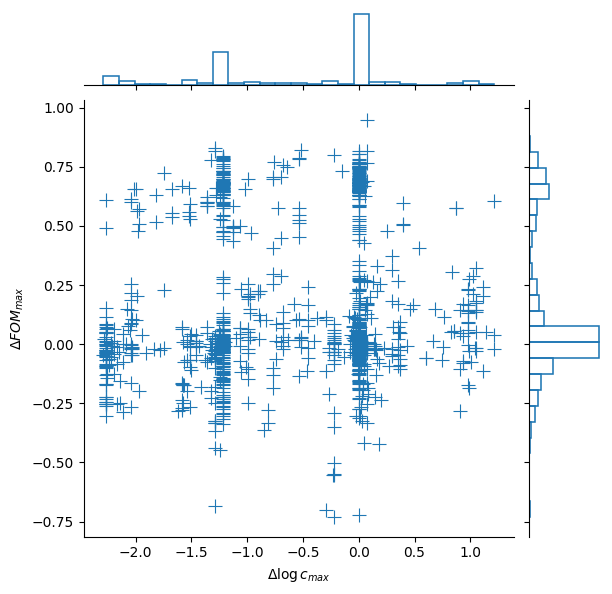
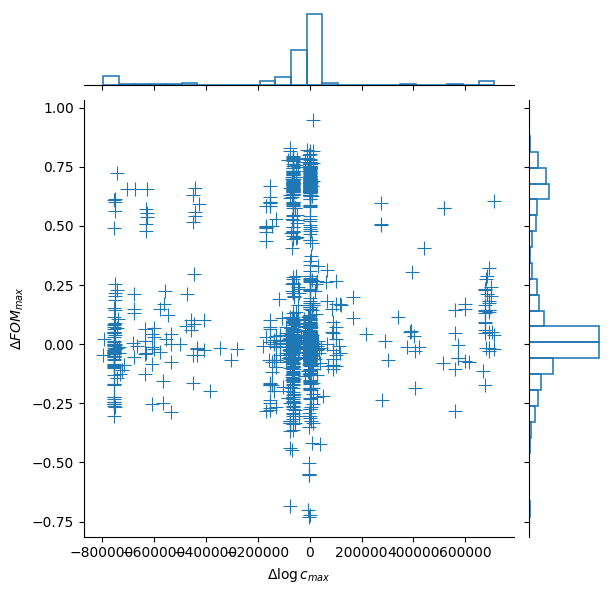
- dconc analysis, nomal scale

diff --git a/workplace/Counterfactual/dconc/dconc.py b/workplace/Counterfactual/dconc/dconc.py
@@ -1,5 +1,4 @@
 import glob
-import math
 import os.path
 
 import numpy as np
@@ -8,14 +7,14 @@ import tqdm
 from loguru import logger
 
 from lsal.alearn.one_ligand import SingleLigandPrediction
-from lsal.utils import json_load
+from lsal.utils import json_load, json_dump
 from lsal.utils import pkl_load, pkl_dump, truncate_distribution
 
 
 def select_cfs(res1: str, res2: str) -> list[dict]:
     selected = []
     unique_pairs = []
-    exported_cfs = json_load("export_cfs.json.gz")
+    exported_cfs = json_load("../export_cfs.json.gz")
     for cf in exported_cfs:
         if cf['residual1'] == res1 and cf['residual2'] == res2:
             selected.append(cf)
@@ -35,6 +34,7 @@ def dump_pred_from_selected_cfs(res1: str, res2: str):
         unique_smiles.append(cf['smiles1'])
         unique_smiles.append(cf['smiles2'])
     unique_smiles = sorted(set(unique_smiles))
+    pred_ranges = []
     selected_preds = []
     for pred_file in tqdm.tqdm(
             sorted(glob.glob("E:\workplace_data\OneLigand\learning_SL0519\prediction\prediction_*.pkl"))):
@@ -62,7 +62,7 @@ def main_analysis(preds: list[SingleLigandPrediction], cfs: list[dict]):
         smi2 = cf['smiles2']
         pred1 = pred_dict[smi1]
         pred2 = pred_dict[smi2]
-        delta_max_conc = math.log10(get_max_conc(pred2)) - math.log10(get_max_conc(pred1))
+        delta_max_conc = get_max_conc(pred2) - get_max_conc(pred1)
         delta_fom.append(cf['delta'])
         delta_conc.append(delta_max_conc)
     return delta_conc, delta_fom
@@ -84,8 +84,10 @@ def main(res1: str, res2: str):
     predictions, selected_cfs = dump_pred_from_selected_cfs(res1, res2)
     logger.info(f"selected predictions: {len(predictions)}")
     delta_conc, delta_fom = main_analysis(predictions, selected_cfs)
+    json_dump({"delta_conc": delta_conc, "delta_fom": delta_fom}, f"dconc_{res1}-{res2}.json")
     fig = main_plot(delta_conc, delta_fom)
     fig.savefig(f"dconc_{res1}-{res2}.png")
+
 
 if __name__ == '__main__':
     main("N", "Br")
